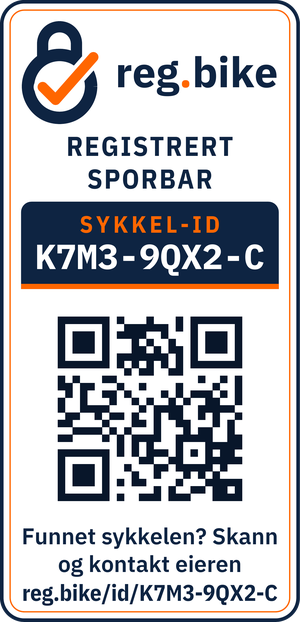
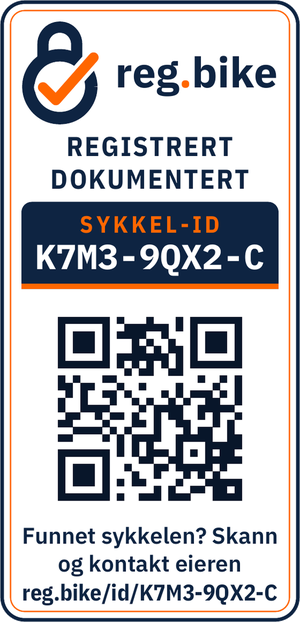
New tagline: Registrer sykkelen din. Dokumenter eierskapet. Regenerated OG and sticker images; ignore src/__pycache__

diff --git a/index.html b/index.html
@@ -14,7 +14,7 @@
 <meta property="og:type" content="website">
 <meta property="og:site_name" content="reg.bike">
 <meta property="og:url" content="https://reg.bike/">
-<meta property="og:title" content="reg.bike · Din sykkel – registrert og sporbar.">
+<meta property="og:title" content="reg.bike · Registrer sykkelen din. Dokumenter eierskapet.">
 <meta property="og:description" content="Registrer sykkelen gratis og få ditt eget QR-merke. Skriv det ut selv, eller bestill slitesterke merker i posten. Alle som finner sykkelen eller vil kjøpe den, kan sjekke om den er meldt stjålet. Kommer snart.">
 <meta property="og:locale" content="nb_NO">
 <meta property="og:locale:alternate" content="en_GB">
@@ -22,12 +22,12 @@
 <meta property="og:image:type" content="image/png">
 <meta property="og:image:width" content="1200">
 <meta property="og:image:height" content="630">
-<meta property="og:image:alt" content="reg.bike-logoen og et QR-merke til sykkelen med teksten «Din sykkel – registrert og sporbar.»">
+<meta property="og:image:alt" content="reg.bike-logoen og et QR-merke til sykkelen med teksten «Registrer sykkelen din. Dokumenter eierskapet.»">
 <meta name="twitter:card" content="summary_large_image">
-<meta name="twitter:title" content="reg.bike · Din sykkel – registrert og sporbar.">
+<meta name="twitter:title" content="reg.bike · Registrer sykkelen din. Dokumenter eierskapet.">
 <meta name="twitter:description" content="Registrer sykkelen gratis og få ditt eget QR-merke. Skriv det ut selv, eller bestill slitesterke merker i posten. Alle som finner sykkelen eller vil kjøpe den, kan sjekke om den er meldt stjålet. Kommer snart.">
 <meta name="twitter:image" content="https://reg.bike/og-image.png">
-<meta name="twitter:image:alt" content="reg.bike-logoen og et QR-merke til sykkelen med teksten «Din sykkel – registrert og sporbar.»">
+<meta name="twitter:image:alt" content="reg.bike-logoen og et QR-merke til sykkelen med teksten «Registrer sykkelen din. Dokumenter eierskapet.»">
 <meta name="theme-color" content="#0E2442">
 <link rel="preload" href="fonts/IBMPlexSans-Bold.woff2" as="font" type="font/woff2" crossorigin>
 <link rel="preload" href="fonts/IBMPlexSansCondensed-Bold.woff2" as="font" type="font/woff2" crossorigin>
@@ -61,7 +61,7 @@
   <div class="wrap">
     <div>
       <p class="soon">Kommer snart</p>
-      <p class="slogan">Din sykkel&nbsp;– registrert og sporbar.</p>
+      <p class="slogan">Registrer sykkelen din. Dokumenter eierskapet.</p>
       <h1 id="hero-title">Registrer sykkelen. Få den igjen hvis den blir stjålet.</h1>
       <p class="lead">reg.bike er et nytt norsk sykkelregister. Du registrerer rammenummeret og fester et QR-merke på sykkelen. Da kan alle som finner den eller vil kjøpe den, sjekke på sekunder om den er meldt stjålet.</p>
       <div class="actions">
@@ -74,7 +74,7 @@
     <div class="tube">
       <picture>
         <source type="image/webp" srcset="img/sticker-portrait-30x60-color.webp 1x, img/sticker-portrait-30x60-color@2x.webp 2x">
-        <img src="img/sticker-portrait-30x60-color.png" srcset="img/sticker-portrait-30x60-color@2x.png 2x" width="300" height="622" alt="Eksempel på et stående reg.bike-merke til seterøret: «Registrert · Sporbar», sykkel-ID K7M3-9QX2-C, QR-kode og teksten «Funnet sykkelen? Skann og kontakt eieren»." fetchpriority="high">
+        <img src="img/sticker-portrait-30x60-color.png" srcset="img/sticker-portrait-30x60-color@2x.png 2x" width="300" height="622" alt="Eksempel på et stående reg.bike-merke til seterøret: «Registrert · Dokumentert», sykkel-ID K7M3-9QX2-C, QR-kode og teksten «Funnet sykkelen? Skann og kontakt eieren»." fetchpriority="high">
       </picture>
     </div>
   </div>
@@ -102,7 +102,7 @@
     <h2 id="ben-title">Til nytte for eier, finner og kjøper</h2>
     <p class="intro">Ett klistremerke på rammen gjør det enklere for alle tre.</p>
     <div class="cards">
-      <article class="card owner"><h3>For deg som eier sykkelen</h3><ul><li>Rammenummer, bilder og kjennetegn samlet på ett sted</li><li>Meld sykkelen stjålet – alle som skanner den, ser det med en gang</li><li>Merket viser at sykkelen er registrert og kan spores</li><li>Alle opplysningene er klare når du anmelder tyveriet</li></ul></article>
+      <article class="card owner"><h3>For deg som eier sykkelen</h3><ul><li>Rammenummer, bilder og kjennetegn samlet på ett sted</li><li>Meld sykkelen stjålet – alle som skanner den, ser det med en gang</li><li>Merket viser at sykkelen er registrert og at eierskapet er dokumentert</li><li>Alle opplysningene er klare når du anmelder tyveriet</li></ul></article>
       <article class="card finder"><h3>For deg som finner en sykkel</h3><ul><li>Skann merket med mobilkameraet – du trenger ingen app</li><li>Se om sykkelen er meldt stjålet</li><li>Send eieren en melding via reg.bike – eieren forblir anonym</li></ul></article>
       <article class="card buyer"><h3>For deg som kjøper brukt</h3><ul><li>Sjekk koden eller rammenummeret før du betaler</li><li>Se om sykkelen er meldt stjålet</li><li>Tryggere handel for både kjøper og selger</li></ul></article>
     </div>

diff --git a/en/index.html b/en/index.html
@@ -14,7 +14,7 @@
 <meta property="og:type" content="website">
 <meta property="og:site_name" content="reg.bike">
 <meta property="og:url" content="https://reg.bike/en/">
-<meta property="og:title" content="reg.bike · Your bike – registered and traceable.">
+<meta property="og:title" content="reg.bike · Register your bike. Document your ownership.">
 <meta property="og:description" content="Register your bike for free and get a unique QR sticker. Print it yourself or order durable stickers by post. Anyone who finds your bike or wants to buy it can check whether it is registered or reported stolen. Coming soon.">
 <meta property="og:locale" content="en_GB">
 <meta property="og:locale:alternate" content="nb_NO">
@@ -22,12 +22,12 @@
 <meta property="og:image:type" content="image/png">
 <meta property="og:image:width" content="1200">
 <meta property="og:image:height" content="630">
-<meta property="og:image:alt" content="reg.bike logo and a QR bike sticker with the words “Your bike – registered and traceable.”">
+<meta property="og:image:alt" content="reg.bike logo and a QR bike sticker with the words “Register your bike. Document your ownership.”">
 <meta name="twitter:card" content="summary_large_image">
-<meta name="twitter:title" content="reg.bike · Your bike – registered and traceable.">
+<meta name="twitter:title" content="reg.bike · Register your bike. Document your ownership.">
 <meta name="twitter:description" content="Register your bike for free and get a unique QR sticker. Print it yourself or order durable stickers by post. Anyone who finds your bike or wants to buy it can check whether it is registered or reported stolen. Coming soon.">
 <meta name="twitter:image" content="https://reg.bike/og-image-en.png">
-<meta name="twitter:image:alt" content="reg.bike logo and a QR bike sticker with the words “Your bike – registered and traceable.”">
+<meta name="twitter:image:alt" content="reg.bike logo and a QR bike sticker with the words “Register your bike. Document your ownership.”">
 <meta name="theme-color" content="#0E2442">
 <link rel="preload" href="../fonts/IBMPlexSans-Bold.woff2" as="font" type="font/woff2" crossorigin>
 <link rel="preload" href="../fonts/IBMPlexSansCondensed-Bold.woff2" as="font" type="font/woff2" crossorigin>
@@ -61,7 +61,7 @@
   <div class="wrap">
     <div>
       <p class="soon">Coming soon</p>
-      <p class="slogan">Your bike&nbsp;– registered and traceable.</p>
+      <p class="slogan">Register your bike. Document your ownership.</p>
       <h1 id="hero-title">Register your bike. Get it back.</h1>
       <p class="lead">reg.bike is a new Norwegian bike registry. Register the frame number, put a QR sticker on your bike, and let anyone who finds it or is thinking of buying it check in seconds whether it has been reported stolen.</p>
       <div class="actions">
@@ -102,7 +102,7 @@
     <h2 id="ben-title">Useful for everyone who deals with bikes</h2>
     <p class="intro">One sticker on the frame helps the owner, whoever finds the bike, and whoever wants to buy it.</p>
     <div class="cards">
-      <article class="card owner"><h3>If you own the bike</h3><ul><li>Frame number, photos and details kept in one place</li><li>Report it stolen, and everyone who scans it sees that right away</li><li>The sticker shows the bike is registered and traceable</li><li>Everything ready when you report the theft to the police</li></ul></article>
+      <article class="card owner"><h3>If you own the bike</h3><ul><li>Frame number, photos and details kept in one place</li><li>Report it stolen, and everyone who scans it sees that right away</li><li>The sticker shows the bike is registered and its ownership documented</li><li>Everything ready when you report the theft to the police</li></ul></article>
       <article class="card finder"><h3>If you find a bike</h3><ul><li>Scan the sticker with your phone camera – no app needed</li><li>See whether the bike has been reported stolen</li><li>Message the owner through reg.bike without seeing who they are</li></ul></article>
       <article class="card buyer"><h3>If you're buying used</h3><ul><li>Check the code or frame number before you pay</li><li>See whether the bike has been reported stolen</li><li>Safer deals for buyers and honest sellers alike</li></ul></article>
     </div>

diff --git a/src/build.py b/src/build.py
@@ -31,19 +31,19 @@ NB = dict(
     og_image=f"{SITE}/og-image.png",
     title="reg.bike – norsk sykkelregister · Kommer snart",
     desc="Registrer sykkelen gratis og få ditt eget QR-merke. Skriv det ut selv, eller bestill slitesterke merker i posten. Alle som finner sykkelen eller vil kjøpe den, kan sjekke om den er meldt stjålet. Kommer snart.",
-    og_title="reg.bike · Din sykkel – registrert og sporbar.",
-    og_alt="reg.bike-logoen og et QR-merke til sykkelen med teksten «Din sykkel – registrert og sporbar.»",
+    og_title="reg.bike · Registrer sykkelen din. Dokumenter eierskapet.",
+    og_alt="reg.bike-logoen og et QR-merke til sykkelen med teksten «Registrer sykkelen din. Dokumenter eierskapet.»",
     skip="Gå til hovedinnholdet", home_label="reg.bike – til forsiden", nav_label="Hovedmeny",
     nav=[("#slik", "Slik fungerer det"), ("#fordeler", "Fordeler"), ("#merket", "Klistremerket"), ("#pris", "Pris"), ("#personvern", "Personvern")],
     other_lang="English", other_lang_code="en", other_href="en/", other_label="Read this page in English",
     nav_cta="Få beskjed",
-    strip="Gratis å registrere · Registerdata lagres i EU (Frankfurt)", soon="Kommer snart", slogan="Din sykkel&nbsp;– registrert og sporbar.",
+    strip="Gratis å registrere · Registerdata lagres i EU (Frankfurt)", soon="Kommer snart", slogan="Registrer sykkelen din. Dokumenter eierskapet.",
     h1="Registrer sykkelen. Få den igjen hvis den blir stjålet.",
     lead="reg.bike er et nytt norsk sykkelregister. Du registrerer rammenummeret og fester et QR-merke på sykkelen. Da kan alle som finner den eller vil kjøpe den, sjekke på sekunder om den er meldt stjålet.",
     cta="Få beskjed når vi åpner", cta2="Slik fungerer det",
     perks=["<strong>Gratis</strong> å registrere", "Skriv ut klistremerket <strong>gratis</strong> hjemme", "Eller bestill slitesterke merker i posten for en liten sum"],
     fine="Du trenger ingen app, bare kameraet på mobilen.",
-    hero_img_alt="Eksempel på et stående reg.bike-merke til seterøret: «Registrert · Sporbar», sykkel-ID K7M3-9QX2-C, QR-kode og teksten «Funnet sykkelen? Skann og kontakt eieren».",
+    hero_img_alt="Eksempel på et stående reg.bike-merke til seterøret: «Registrert · Dokumentert», sykkel-ID K7M3-9QX2-C, QR-kode og teksten «Funnet sykkelen? Skann og kontakt eieren».",
     how_k="Slik fungerer det", how_h="Tre steg, så er sykkelen merket",
     how_i="Registreringen tar et par minutter. Etter det gjør klistremerket jobben.",
     steps=[(ICON_REGISTER, "Registrer gratis", "Opprett en gratis konto og legg inn merke, modell, farge, rammenummer og bilder av sykkelen."),
@@ -51,7 +51,7 @@ NB = dict(
            (ICON_SCAN, "Skann og sjekk", "Alle kan skanne merket eller slå opp koden og se med en gang om sykkelen er registrert eller meldt stjålet.")],
     ben_k="Fordeler", ben_h="Til nytte for eier, finner og kjøper",
     ben_i="Ett klistremerke på rammen gjør det enklere for alle tre.",
-    cards=[("owner", "For deg som eier sykkelen", ["Rammenummer, bilder og kjennetegn samlet på ett sted", "Meld sykkelen stjålet – alle som skanner den, ser det med en gang", "Merket viser at sykkelen er registrert og kan spores", "Alle opplysningene er klare når du anmelder tyveriet"]),
+    cards=[("owner", "For deg som eier sykkelen", ["Rammenummer, bilder og kjennetegn samlet på ett sted", "Meld sykkelen stjålet – alle som skanner den, ser det med en gang", "Merket viser at sykkelen er registrert og at eierskapet er dokumentert", "Alle opplysningene er klare når du anmelder tyveriet"]),
            ("finder", "For deg som finner en sykkel", ["Skann merket med mobilkameraet – du trenger ingen app", "Se om sykkelen er meldt stjålet", "Send eieren en melding via reg.bike – eieren forblir anonym"]),
            ("buyer", "For deg som kjøper brukt", ["Sjekk koden eller rammenummeret før du betaler", "Se om sykkelen er meldt stjålet", "Tryggere handel for både kjøper og selger"])],
     st_k="Klistremerket", st_h="Et tydelig signal til tyven",
@@ -90,13 +90,13 @@ EN = dict(
     og_image=f"{SITE}/og-image-en.png",
     title="reg.bike – the Norwegian bike registry · Coming soon",
     desc="Register your bike for free and get a unique QR sticker. Print it yourself or order durable stickers by post. Anyone who finds your bike or wants to buy it can check whether it is registered or reported stolen. Coming soon.",
-    og_title="reg.bike · Your bike – registered and traceable.",
-    og_alt="reg.bike logo and a QR bike sticker with the words “Your bike – registered and traceable.”",
+    og_title="reg.bike · Register your bike. Document your ownership.",
+    og_alt="reg.bike logo and a QR bike sticker with the words “Register your bike. Document your ownership.”",
     skip="Skip to content", home_label="reg.bike – home", nav_label="Main menu",
     nav=[("#how", "How it works"), ("#benefits", "Benefits"), ("#sticker", "The sticker"), ("#pricing", "Pricing"), ("#privacy", "Privacy")],
     other_lang="Norsk", other_lang_code="nb", other_href="../", other_label="Les siden på norsk",
     nav_cta="Get notified",
-    strip="Free to register · Registry data is stored in the EU (Frankfurt)", soon="Coming soon", slogan="Your bike&nbsp;– registered and traceable.",
+    strip="Free to register · Registry data is stored in the EU (Frankfurt)", soon="Coming soon", slogan="Register your bike. Document your ownership.",
     h1="Register your bike. Get it back.",
     lead="reg.bike is a new Norwegian bike registry. Register the frame number, put a QR sticker on your bike, and let anyone who finds it or is thinking of buying it check in seconds whether it has been reported stolen.",
     cta="Tell me when you launch", cta2="How it works",
@@ -110,7 +110,7 @@ EN = dict(
            (ICON_SCAN, "Scan and check", "Anyone can scan the sticker or look up the code and see right away whether the bike is registered or reported stolen.")],
     ben_k="Benefits", ben_h="Useful for everyone who deals with bikes",
     ben_i="One sticker on the frame helps the owner, whoever finds the bike, and whoever wants to buy it.",
-    cards=[("owner", "If you own the bike", ["Frame number, photos and details kept in one place", "Report it stolen, and everyone who scans it sees that right away", "The sticker shows the bike is registered and traceable", "Everything ready when you report the theft to the police"]),
+    cards=[("owner", "If you own the bike", ["Frame number, photos and details kept in one place", "Report it stolen, and everyone who scans it sees that right away", "The sticker shows the bike is registered and its ownership documented", "Everything ready when you report the theft to the police"]),
            ("finder", "If you find a bike", ["Scan the sticker with your phone camera – no app needed", "See whether the bike has been reported stolen", "Message the owner through reg.bike without seeing who they are"]),
            ("buyer", "If you're buying used", ["Check the code or frame number before you pay", "See whether the bike has been reported stolen", "Safer deals for buyers and honest sellers alike"])],
     st_k="The sticker", st_h="A mark thieves notice",

diff --git a/src/og.py b/src/og.py
@@ -7,17 +7,19 @@ ROOT = Path(__file__).resolve().parent.parent
 TPL = """<!doctype html><html><head><meta charset="utf-8"><style>
 @font-face{font-family:P;font-weight:700;src:url(fonts/IBMPlexSans-Bold.woff2)}
 @font-face{font-family:P;font-weight:600;src:url(fonts/IBMPlexSans-SemiBold.woff2)}
+@font-face{font-family:C;font-weight:700;src:url(fonts/IBMPlexSansCondensed-Bold.woff2)}
 @font-face{font-family:M;font-weight:700;src:url(fonts/IBMPlexMono-Bold.woff2)}
 html,body{margin:0;width:1200px;height:630px;overflow:hidden}
 body{background:#0E2442;color:#fff;font-family:P,sans-serif;position:relative}
-body::before{content:"";position:absolute;inset:0;background:radial-gradient(circle at 82% 45%,rgba(37,64,107,.95),rgba(14,36,66,0) 55%)}
-.l{position:absolute;left:84px;top:86px;width:720px}
-.logo{height:76px;display:block}
-.soon{display:inline-flex;align-items:center;gap:10px;margin-top:46px;padding:7px 18px 7px 14px;border:2px solid rgba(255,255,255,.35);border-radius:999px;font-weight:600;font-size:20px;letter-spacing:.08em;text-transform:uppercase}
+body{background:url(img/guilloche.svg) repeat-x 0 470px/240px 120px,radial-gradient(120% 140% at 80% 25%,#25406B 0,#0E2442 55%,#0A1B33 100%)}
+.s1,.s2{position:absolute;top:-60px;height:760px;background:#FF6600;transform:skewX(-18deg)}.s1{left:752px;width:40px}.s2{left:724px;width:10px}
+.l{position:absolute;left:72px;top:48px;width:640px}
+.logo{height:64px;display:block}
+.soon{display:inline-flex;align-items:center;gap:10px;margin-top:30px;padding:7px 18px 7px 14px;border:2px solid rgba(255,255,255,.35);border-radius:999px;font-weight:600;font-size:20px;letter-spacing:.08em;text-transform:uppercase}
 .soon::before{content:"";width:12px;height:12px;border-radius:50%;background:#FF6600;box-shadow:0 0 0 4px rgba(255,102,0,.25)}
-h1{font-size:58px;line-height:1.06;margin:26px 0 20px;letter-spacing:-.02em}
+h1{font-family:C,P,sans-serif;text-transform:uppercase;font-size:56px;line-height:.98;margin:22px 0 16px}
 h1 span{color:#FF6600}
-p{font-size:28px;line-height:1.35;color:#D4DAE2;margin:0}
+p{font-size:24px;line-height:1.35;color:#D4DAE2;margin:0}
 .url{position:absolute;left:84px;bottom:58px;font-family:M;font-size:26px;color:#fff}
 .url b{color:#FF6600}
 .bar{position:absolute;left:0;right:0;bottom:0;height:10px;background:#FF6600}
@@ -28,11 +30,11 @@ p{font-size:28px;line-height:1.35;color:#D4DAE2;margin:0}
 <div class="soon">{soon}</div>
 <h1>{h1}</h1><p>{p}</p></div>
 <div class="url">https://reg<b>.</b>bike</div>
-<div class="tube"></div><img class="st" src="img/sticker-portrait-30x60-color@2x.png">
+<div class="s2"></div><div class="s1"></div><div class="tube"></div><img class="st" src="img/sticker-portrait-30x60-color@2x.png">
 <div class="bar"></div></body></html>"""
 VARIANTS = {
-  "og-image.png": dict(soon="Kommer snart", h1="Din sykkel –<br>registrert og <span>sporbar.</span>", p="Norsk sykkelregister med QR-merke.<br>Sjekk om en sykkel er meldt stjålet."),
-  "og-image-en.png": dict(soon="Coming soon", h1="Your bike –<br>registered and <span>traceable.</span>", p="A Norwegian bike registry with QR stickers.<br>Check whether a bike is reported stolen."),
+  "og-image.png": dict(soon="Kommer snart", h1="Registrer sykkelen din.<br><span>Dokumenter eierskapet.</span>", p="Norsk sykkelregister med QR-merke.<br>Sjekk om en sykkel er meldt stjålet."),
+  "og-image-en.png": dict(soon="Coming soon", h1="Register your bike.<br><span>Document your ownership.</span>", p="A Norwegian bike registry with QR stickers.<br>Check whether a bike is reported stolen."),
 }
 async def main():
     async with async_playwright() as pw:
